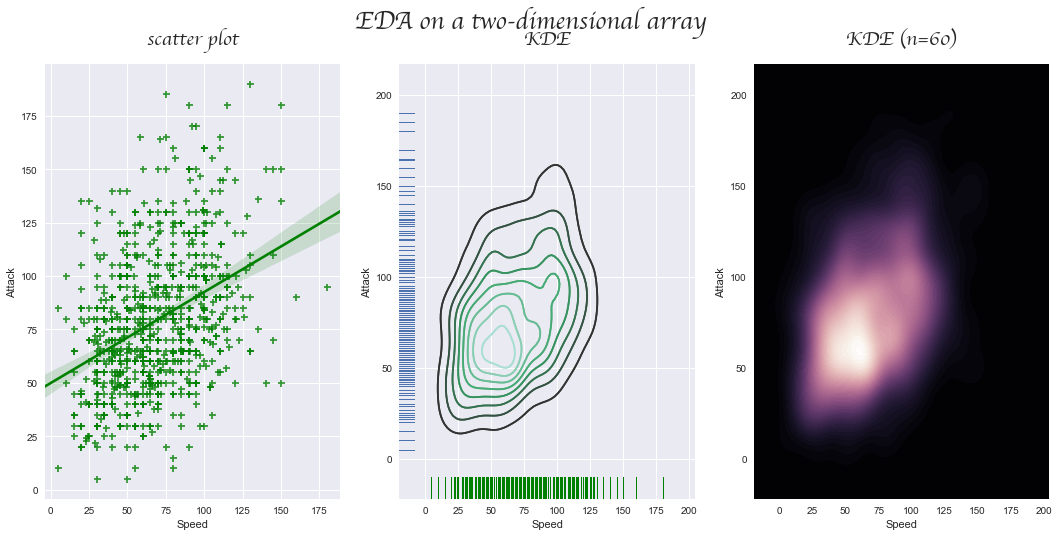
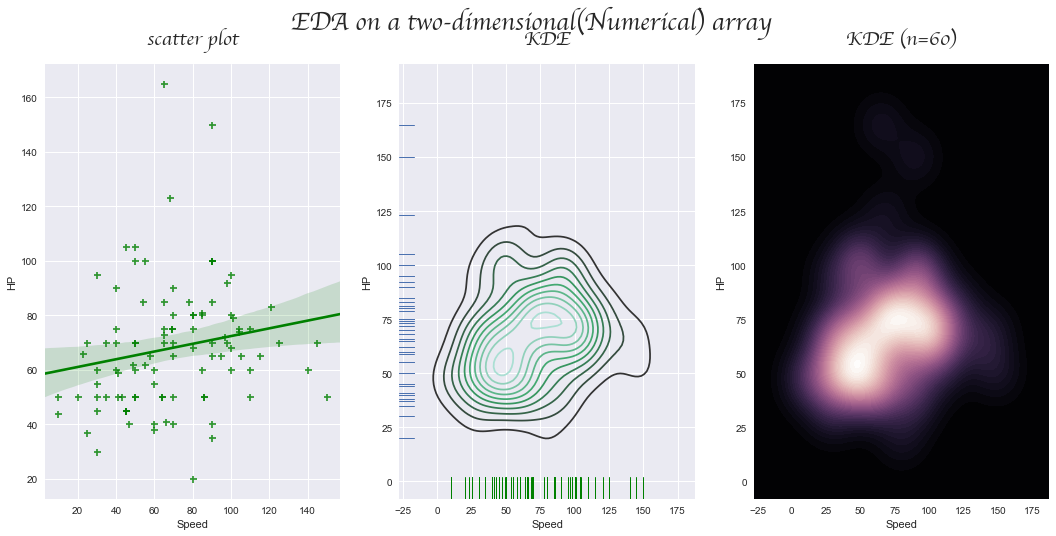
bivariate random sample

diff --git a/edaplotting/__init__.py b/edaplotting/__init__.py
@@ -11,6 +11,7 @@ sns.set()
 
 class explore():
 
+
     percentiles = np.array([2.5,25,50,75,97.5]) # Specify array of percentiles
 
     def __init__(self, **kwargs):
@@ -21,11 +22,14 @@ class explore():
             setattr(self, k, v)   
 
     def plot_univariate(self):
-        """plotting for a one-dimensional array(numeric) of measurements."""
+        """plotting for a one-dimensional array(Numerical) of measurements."""
 
         # extract a random sample of 100 data points
         if len(self.x)>=100:
-            x = self.x.sample(n=100)
+            x = self.x.sample(n=100,random_state=42)
+            
+        else:
+            x = self.x
 
         # set plot attributes   
         titlefont = {'fontname':"cursive",'weight':'bold', 'fontsize':25}
@@ -42,7 +46,7 @@ class explore():
         fig, axes = plt.subplots(nrows=2, ncols=2,figsize=(18,12))
         
         # set figure title
-        fig.suptitle("EDA on a one-dimensional array",**titlefont)
+        fig.suptitle("EDA on a one-dimensional(Numerical) array",**titlefont)
 
         # Plot the Emperical CDF
         axes[0, 0].plot(x, y, marker = '.', linestyle = 'none')
@@ -71,9 +75,18 @@ class explore():
         
         
     def plot_bivariate(self):
-        """plotting for a two-dimensional array(numeric) of measurements."""
-            
+        """plotting for a two-dimensional array(Numerical) of measurements."""
+ 
 
+        # extract a random sample of 100 data points
+        if len(self.x)>=100:
+            x = self.x.sample(n=100,random_state=42)
+            y = pd.Series(self.y , index=x.index)
+
+        else:
+            x = self.x
+            y = self.y
+    
         # set plot attributes   
         titlefont = {'fontname':"cursive",'weight':'bold', 'fontsize':25}
         axfont = {'fontname':"cursive",'weight':'bold','fontsize':20}
@@ -84,32 +97,23 @@ class explore():
         fig, axes = plt.subplots(nrows=1, ncols=3,figsize=(18,8))
         
         # set figure title
-        fig.suptitle("EDA on a two-dimensional array",**titlefont)
+        fig.suptitle("EDA on a two-dimensional(Numerical) array",**titlefont)
 
         # scatter
         # Create scatter plot with Seaborn's default setting
-        sns.regplot(x=self.x, y=self.y,color='g',marker="+",ax=axes[0])
+        sns.regplot(x, y,color='g',marker="+",ax=axes[0])
         axes[0].set_title('scatter plot', **axfont)
     
-    
-        # Create scatter plot with Seaborn's default setting
-        sns.kdeplot(self.x, self.y, ax=axes[1])
-        sns.rugplot(self.x, color="g", ax=axes[1])
-        sns.rugplot(self.y, vertical=True, ax=axes[1])
-        axes[1].set_title('KDE', **axfont)
-        
- 
         # Create kde plot with Seaborn's default setting
-        sns.kdeplot(self.x, self.y, ax=axes[1])
-        sns.rugplot(self.x, color="g", ax=axes[1])
-        sns.rugplot(self.y, vertical=True, ax=axes[1])
+        sns.kdeplot(x, y, ax=axes[1])
+        sns.rugplot(x, color="g", ax=axes[1])
+        sns.rugplot(y, vertical=True, ax=axes[1])
         axes[1].set_title('KDE', **axfont)
         
         # Create kde(n=60) plot with Seaborn's default setting
         cmap = sns.cubehelix_palette(as_cmap=True, dark=0, light=1, reverse=True)
-        sns.kdeplot(self.x, self.y, cmap=cmap, n_levels=60, shade=True,ax=axes[2])
+        sns.kdeplot(x, y, cmap=cmap, n_levels=60, shade=True,ax=axes[2])
         axes[2].set_title('KDE (n=60)', **axfont)
-    
     
         # Display the plot
         plt.show()

diff --git a/setup.py b/setup.py
@@ -1,7 +1,7 @@
 from setuptools import setup
 
 setup(name='edaplotting',
-      version='0.6',
+      version='0.7',
       description='plotting for exploratory data analysis',
       url='http://github.com/asela1982/edaplotting',
       author='Asela Dassanayake',

diff --git a/README.md b/README.md
@@ -12,10 +12,10 @@ seaborn (required): https://seaborn.pydata.org
 
 ### Key features
 
-* Plot command that supports 4-in-1 with no requirment to import any plotting libraries :sunglasses:
-* Supports univariate and bivariate exploratory analysis on numerical variables
-* Takes only a 100 random data points for plotting(only available for univariate)
-* Includes the ECDF plot : https://en.wikipedia.org/wiki/Empirical_distribution_function
+* Mulitple plots with a single plot command with no requirment to import any plotting libraries
+* Supports univariate and bivariate exploratory analysis
+* Takes only a 100 random data points for plotting
+* Includes the ECDF plot : https://en.wikipedia.org/wiki/Empirical_distribution_function on univariate
 * Red diamonds on the ECDF plot indicate the following percentiles : 2.5,25,50(median),75,97.5
 
 ## looks cool!! But how do i use this library? :confused:
@@ -54,7 +54,6 @@ myobject.plot_bivariate() # plot the object
 
 ### Todo
 
-* Sample data for the bivariate array
 * Expand for categorical variables
 
 ### License
